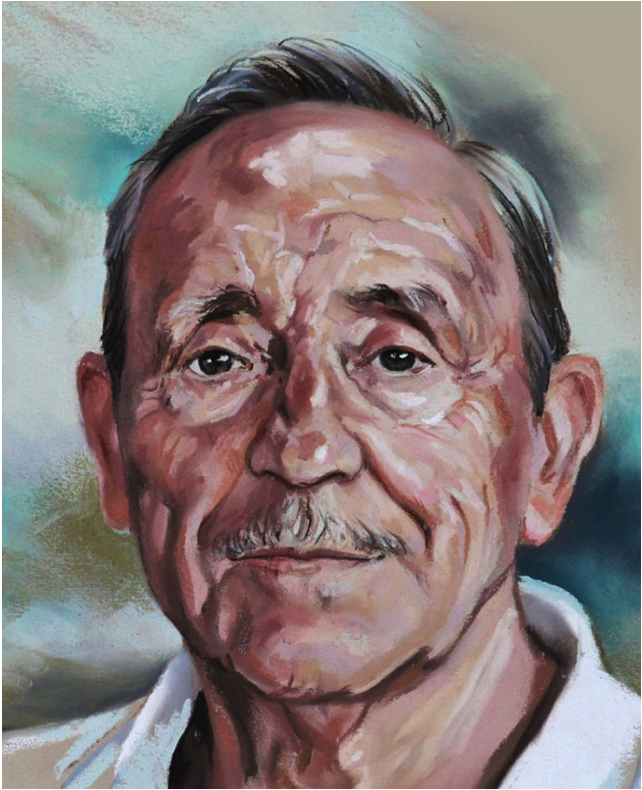
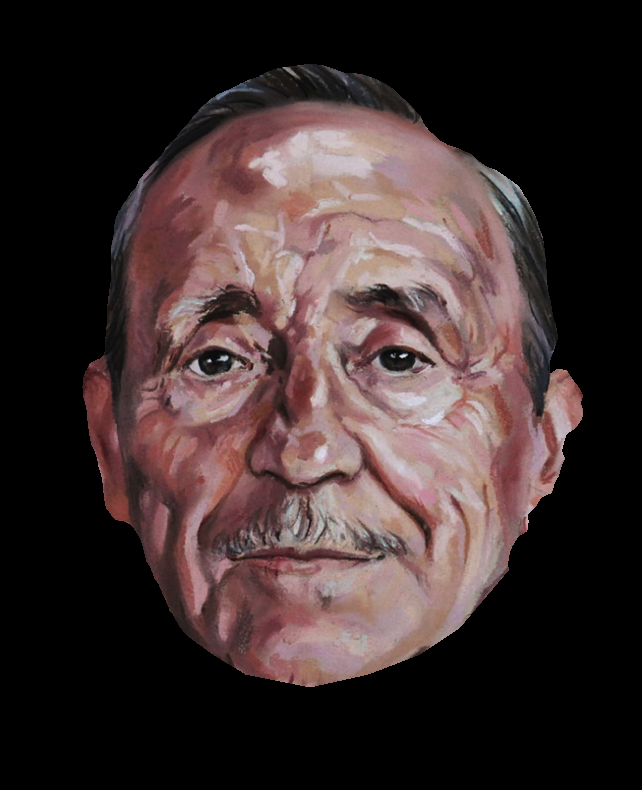
add mask to every img

diff --git a/code/Gapp/generateGapp.py b/code/Gapp/generateGapp.py
@@ -49,8 +49,10 @@ if __name__ == '__main__':
     height, width, c = input_img.shape
     new_gridY, new_gridX = np.meshgrid((np.arange(width)).astype(np.int16), 
                                         (np.arange(height)).astype(np.int16))
-    style_mask[new_gridX, new_gridY] = style_mask[vy, vx]
-    matched = localMatching(warped, input_img, style_mask, input_mask, vx, vy)
+    style_mask_copy = style_mask.copy()                                   
+    style_mask_copy[new_gridX, new_gridY] = style_mask[vy, vx]
+    matched = localMatching(warped, input_img, style_mask_copy, input_mask, vx, vy)
     matched = replaceBackground(matched, style_img, input_img, style_mask, input_mask, vx, vy)
+    style_img[style_mask == 0] = 0
     cv2.imwrite(style_dir+"/"+"G_app/"+sys.argv[2], style_img)
     cv2.imwrite(input_dir+"/"+"G_app/"+sys.argv[4], matched)

diff --git a/code/Gpos/mlsAffineMorpher.py b/code/Gpos/mlsAffineMorpher.py
@@ -141,8 +141,8 @@ if __name__ == "__main__":
     ## 視覺化
     # cv2.imwrite(input_dir + "/" + "G_pos/" + sys.argv[4], output_des)
     # cv2.imwrite(style_dir + "/" + "G_pos/" + sys.argv[2], output_ori)
-
     ## GOGO
+    image[style_mask == 0] = 0
     cv2.imwrite(style_dir  + "/" + "G_pos/" + sys.argv[2], image)
     cv2.imwrite(input_dir  + "/" + "G_pos/" + sys.argv[4], after_img)
     print("end")
